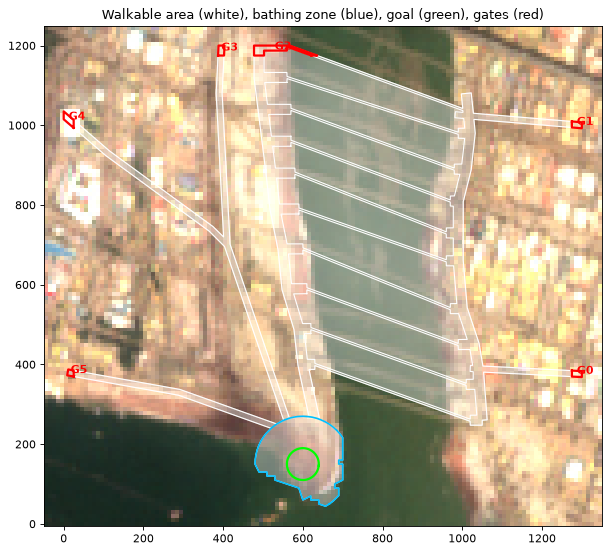
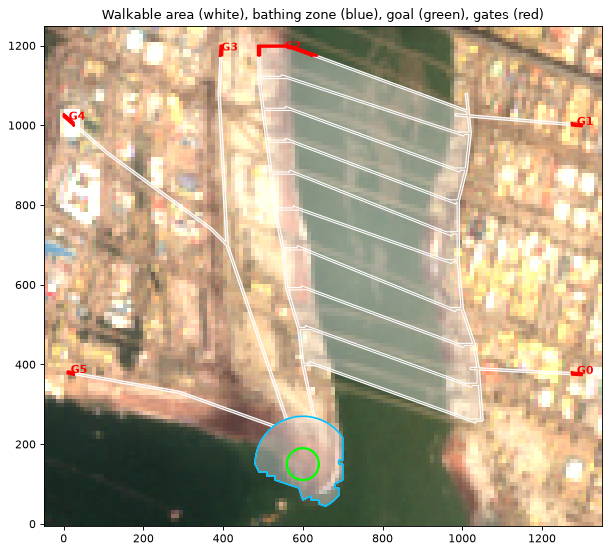
Link corridor widths to map and capacity, move assumptions to config
Each corridor now uses its approx_width_m from the sangam-command layers,
capacity is width x 1.3 people/m/s, and run_sim reports gate demand vs
capacity. All tunables move to config/sim.json.

diff --git a/scripts/build_hotspot.py b/scripts/build_hotspot.py
@@ -3,8 +3,10 @@
 Reads the Sentinel-traced layers from the Sangam Command map project and writes
 data/hotspot/sangam_nose.json in local metres (UTM 44N minus an origin).
 
-Widths are assumptions, not measurements: 10 m Sentinel-2 cannot resolve them.
-Change them in WIDTHS_M and re-run.
+Each corridor uses its own width from the map (approx_width_m, with width_source
+saying where it came from). Features without one fall back to default_width_m in
+config/sim.json; width_override_m forces a width for a whole kind. Capacity is
+width x specific_flow_pms (free flow, ~1.3 people/m/s).
 """
 import json
 from pathlib import Path
@@ -15,17 +17,9 @@ import shapely.affinity
 from pyproj import Transformer
 from shapely.geometry import box, mapping, shape
 
-MAP = Path("/Users/piyushchauhan/Documents/ChatGPT/Crowd Control/sangam-command/data")
-OUT = Path(__file__).resolve().parent.parent / "data" / "hotspot"
+import config
 
-HALF_WINDOW_M = 600          # study window: nose +- this, east-shifted to include the far pontoon ends
-WIDTHS_M = {
-    "pontoon": 5.0,          # single-lane pontoon deck
-    "mela_road": 15.0,       # main temporary road
-    "approach": 25.0,        # bank margin lanes / ghat approaches
-}
-BATHING_RADIUS_M = 120       # land within this distance of the nose tip counts as the bathing ghat
-SPAWN_DEPTH_M = 25           # strip along the window edge where people enter/leave
+OUT = Path(__file__).resolve().parent.parent / "data" / "hotspot"
 
 _tr = Transformer.from_crs(4326, 32644, always_xy=True)
 
@@ -34,60 +28,92 @@ def to_utm(geom):
     return shapely.transform(geom, lambda c: np.column_stack(_tr.transform(c[:, 0], c[:, 1])))
 
 
-def load(name):
-    feats = json.load(open(MAP / "mela" / f"{name}.geojson"))["features"]
+def load(map_dir, name):
+    feats = json.load(open(map_dir / "mela" / f"{name}.geojson"))["features"]
     return [(f["properties"], to_utm(shape(f["geometry"]))) for f in feats if f["geometry"]]
 
 
+def width_of(props, kind, hcfg):
+    """Width in metres and where it came from: override > map > default."""
+    if hcfg["width_override_m"].get(kind) is not None:
+        return hcfg["width_override_m"][kind], "config_override"
+    if props.get("approx_width_m") is not None:
+        return float(props["approx_width_m"]), props.get("width_source") or "map"
+    return hcfg["default_width_m"][kind], "config_default"
+
+
 def main():
-    nose = load("sangam_nose")[0][1]
-    win = box(nose.x - HALF_WINDOW_M, nose.y - 150, nose.x + HALF_WINDOW_M + 100, nose.y + 2 * HALF_WINDOW_M - 150)
-    river = shapely.union_all([g for _, g in load("river_banks")]).buffer(0)
+    cfg = config.load()
+    hcfg = cfg["hotspot"]
+    map_dir = cfg["map_data_dir"]
+    half = hcfg["half_window_m"]
+
+    nose = load(map_dir, "sangam_nose")[0][1]
+    win = box(nose.x - half, nose.y - 150, nose.x + half + 100, nose.y + 2 * half - 150)
+    river = shapely.union_all([g for _, g in load(map_dir, "river_banks")]).buffer(0)
     land = win.difference(river)
 
-    corridors = [g.buffer(WIDTHS_M["mela_road"] / 2, cap_style="flat") for _, g in load("mela_roads")]
-    corridors += [g.buffer(WIDTHS_M["approach"] / 2, cap_style="flat") for _, g in load("pontoon_approaches")]
-    bathing = nose.buffer(BATHING_RADIUS_M).intersection(land)
-    on_land = shapely.union_all(corridors + [bathing]).intersection(land)
+    # (id, kind, width, source, polygon) for every corridor inside the window.
+    corridors = []
+    for layer, kind in [("mela_roads", "mela_road"), ("pontoon_approaches", "approach")]:
+        for props, line in load(map_dir, layer):
+            if line.intersects(win):
+                w, src = width_of(props, kind, hcfg)
+                corridors.append((props["id"], kind, w, src, line.buffer(w / 2, cap_style="flat").intersection(land)))
+    bathing = nose.buffer(hcfg["bathing_radius_m"]).intersection(land)
 
     # Pontoon decks cross the water, so they are not clipped by the river mask.
     # Extend each deck a little at both ends so it overlaps the bank corridors.
-    pontoons, pontoon_ids = [], []
-    for props, line in load("pontoon_bridges"):
+    ext_m = hcfg["pontoon_end_extension_m"]
+    for props, line in load(map_dir, "pontoon_bridges"):
         if not line.intersects(win):
             continue
         a, b = shapely.get_coordinates(line)[[0, -1]]
         d = (b - a) / max(line.length, 1e-6)
-        ext = shapely.LineString([a - d * 15, *shapely.get_coordinates(line)[1:-1], b + d * 15])
-        pontoons.append(ext.buffer(WIDTHS_M["pontoon"] / 2, cap_style="flat").intersection(win))
-        pontoon_ids.append(props["id"])
+        ext = shapely.LineString([a - d * ext_m, *shapely.get_coordinates(line)[1:-1], b + d * ext_m])
+        w, src = width_of(props, "pontoon", hcfg)
+        corridors.append((props["id"], "pontoon", w, src, ext.buffer(w / 2, cap_style="flat").intersection(win)))
 
-    walk = shapely.union_all([on_land, *pontoons]).buffer(0.5).buffer(-0.5).simplify(0.5)
+    walk = shapely.union_all([c[4] for c in corridors] + [bathing]).buffer(0.5).buffer(-0.5).simplify(0.5)
     parts = sorted(getattr(walk, "geoms", [walk]), key=lambda p: p.area, reverse=True)
     walk = parts[0]  # one connected walkable area; drop islands nothing can reach
+    corridors = [c for c in corridors if c[4].intersects(walk)]
 
     # Where corridors cross the window edge, people enter and leave.
-    edge = win.exterior.buffer(SPAWN_DEPTH_M).intersection(walk)
+    edge = win.exterior.buffer(hcfg["spawn_depth_m"]).intersection(walk)
     gates = [g for g in getattr(edge, "geoms", [edge]) if g.area > 50]
-    goal = nose.buffer(40).intersection(walk)  # bathing edge at the tip
+    goal = nose.buffer(hcfg["goal_radius_m"]).intersection(walk)
+
+    # A gate's capacity is that of the corridors feeding it (summed if several meet there).
+    gate_info = []
+    for g in gates:
+        feeding = [c for c in corridors if c[4].intersection(g).area > 1]
+        width = sum(c[2] for c in feeding)
+        gate_info.append({"corridors": [c[0] for c in feeding], "width_m": width,
+                          "capacity_ppm": round(config.capacity_ppm(width, cfg))})
 
     ox, oy = round(win.bounds[0]), round(win.bounds[1])
     local = lambda g: shapely.affinity.translate(g, -ox, -oy)
     OUT.mkdir(parents=True, exist_ok=True)
     out = {
         "origin_utm44n": [ox, oy],
-        "assumptions": {"widths_m": WIDTHS_M, "bathing_radius_m": BATHING_RADIUS_M,
-                        "source": "Sangam Command traced layers, Sentinel-2 2025-01-27; widths assumed"},
+        "assumptions": {"hotspot": hcfg, "capacity": cfg["capacity"],
+                        "source": "Sangam Command traced layers, Sentinel-2 2025-01-27; widths from map approx_width_m"},
         "walkable": mapping(local(walk)),
         "bathing_area": mapping(local(bathing.intersection(walk))),
         "goal": mapping(local(goal)),
         "gates": [mapping(local(g)) for g in gates],
-        "pontoon_ids": pontoon_ids,
+        "gate_capacity": gate_info,
+        "corridors": [{"id": i, "kind": k, "width_m": w, "width_source": s,
+                       "capacity_ppm": round(config.capacity_ppm(w, cfg))} for i, k, w, s, _ in corridors],
+        "pontoon_ids": [c[0] for c in corridors if c[1] == "pontoon"],
     }
     (OUT / "sangam_nose.json").write_text(json.dumps(out))
     print(f"walkable {walk.area / 1e4:.2f} ha, parts dropped {len(parts) - 1}, "
-          f"gates {len(gates)}, pontoons {len(pontoons)}, goal {goal.area:.0f} m2, "
+          f"corridors {len(corridors)}, pontoons {len(out['pontoon_ids'])}, goal {goal.area:.0f} m2, "
           f"bathing {bathing.area:.0f} m2, vertices {len(shapely.get_coordinates(walk))}")
+    for i, gi in enumerate(gate_info):
+        print(f"  G{i}: width {gi['width_m']:.1f} m, capacity {gi['capacity_ppm']} people/min, via {', '.join(gi['corridors'])}")
 
 
 if __name__ == "__main__":

diff --git a/scripts/run_sim.py b/scripts/run_sim.py
@@ -10,19 +10,22 @@ Writes out/<name>/snapshots.npz (positions every second) and run.json.
 import argparse
 import json
 import time
-from pathlib import Path
 
 import jupedsim as jps
 import numpy as np
 import shapely
 from shapely.geometry import shape
 
-ROOT = Path(__file__).resolve().parent.parent
+import config
+
+ROOT = config.ROOT
+CFG = config.load()
 # Share of inbound arrivals per gate (G0..G5, see out/hotspot_walkable.png):
 # G0/G1 east bank via pontoons, G2/G3 north lanes along the nose, G4/G5 city roads.
-GATE_WEIGHTS = [0.15, 0.15, 0.2, 0.2, 0.15, 0.15]
-AGENT_RADIUS_M = 0.2
-MIN_SPAWN_GAP_M = 0.45
+GATE_WEIGHTS = CFG["gate_weights"]
+AGENT_RADIUS_M = CFG["agents"]["radius_m"]
+MIN_SPAWN_GAP_M = CFG["agents"]["min_spawn_gap_m"]
+SPEED = CFG["agents"]["desired_speed_mps"]
 
 
 def random_points(poly, n, rng):
@@ -56,6 +59,18 @@ def main():
     ghat = shape(hs["bathing_area"]).difference(goal.buffer(2)).buffer(-1)
     for g in [goal, ghat, *gates]:
         shapely.prepare(g)
+    if len(GATE_WEIGHTS) != len(gates):
+        raise SystemExit(f"config gate_weights has {len(GATE_WEIGHTS)} entries but the hotspot has {len(gates)} gates")
+
+    # Inbound demand per gate against its free-flow capacity (width x specific flow).
+    # Over capacity is allowed: queues and backlog are what we want to see.
+    gate_load = []
+    for i, (w, cap) in enumerate(zip(GATE_WEIGHTS, hs["gate_capacity"])):
+        demand = args.inflow * w
+        gate_load.append({"gate": i, "demand_ppm": round(demand), "capacity_ppm": cap["capacity_ppm"],
+                          "load": round(demand / cap["capacity_ppm"], 2)})
+        print(f"G{i}: demand {demand:6.0f}/min vs capacity {cap['capacity_ppm']:5d}/min "
+              f"({demand / cap['capacity_ppm']:.0%}){'  OVER' if demand > cap['capacity_ppm'] else ''}")
 
     sim = jps.Simulation(model=jps.CollisionFreeSpeedModel(), geometry=walk, dt=args.dt)
     goal_id = sim.add_exit_stage(goal)
@@ -93,7 +108,7 @@ def main():
             try:
                 sim.add_agent(jps.CollisionFreeSpeedModelAgentParameters(
                     journey_id=journey, stage_id=stage, position=tuple(p),
-                    desired_speed=float(np.clip(rng.normal(1.2, 0.2), 0.6, 1.8)),
+                    desired_speed=float(np.clip(rng.normal(SPEED["mean"], SPEED["sd"]), SPEED["min"], SPEED["max"])),
                     radius=AGENT_RADIUS_M))
             except RuntimeError:
                 continue
@@ -133,6 +148,7 @@ def main():
                         xy=np.concatenate(frames), ids=np.concatenate(frame_ids))
     run = {"args": vars(args), "gate_weights": GATE_WEIGHTS, "agent_radius_m": AGENT_RADIUS_M,
            "model": "CollisionFreeSpeedModel", "wall_seconds": round(time.time() - t0, 1),
+           "agents": CFG["agents"], "gate_load": gate_load,
            "assumptions": hs["assumptions"], "series": series}
     (out / "run.json").write_text(json.dumps(run))
     print(f"done {name}: wall {run['wall_seconds']}s, peak agents {max(s['agents'] for s in series)}")

diff --git a/scripts/analyze.py b/scripts/analyze.py
@@ -6,7 +6,6 @@ Writes out/<name>/metrics.json and three PNGs.
 """
 import json
 import sys
-from pathlib import Path
 
 import matplotlib
 matplotlib.use("Agg")
@@ -17,11 +16,14 @@ from shapely.geometry import box, shape
 
 from plot_hotspot import background, outline
 
-ROOT = Path(__file__).resolve().parent.parent
-CELL_M = 4.0
-MIN_WALKABLE_M2 = 6.0        # ignore cells that are mostly wall/water
-DENSE = 4.0                  # people/m2: free walking stops
-CRITICAL = 6.0               # people/m2: crush risk
+import config
+
+ROOT = config.ROOT
+_A = config.load()["analysis"]
+CELL_M = _A["cell_m"]
+MIN_WALKABLE_M2 = _A["min_walkable_m2"]  # ignore cells that are mostly wall/water
+DENSE = _A["dense_ppm2"]                 # people/m2: free walking stops
+CRITICAL = _A["critical_ppm2"]           # people/m2: crush risk
 
 
 def main(name):

diff --git a/scripts/peek_hotspot.py b/scripts/peek_hotspot.py
@@ -1,5 +1,4 @@
 import json, subprocess, sys
-from pathlib import Path
 import matplotlib; matplotlib.use("Agg")
 import matplotlib.pyplot as plt
 from PIL import Image
@@ -7,7 +6,9 @@ from pyproj import Transformer
 from shapely.geometry import shape, box
 from shapely.ops import transform
 
-MAP = Path("/Users/piyushchauhan/Documents/ChatGPT/Crowd Control/sangam-command/data")
+import config
+
+MAP = config.load()["map_data_dir"]
 to_utm = Transformer.from_crs(4326, 32644, always_xy=True).transform
 def load(p):
     return [(f["properties"], transform(to_utm, shape(f["geometry"]))) for f in json.load(open(MAP / p))["features"] if f["geometry"]]

diff --git a/scripts/plot_hotspot.py b/scripts/plot_hotspot.py
@@ -1,13 +1,14 @@
 """Draw the hotspot walkable area over the Sentinel-2 image (sanity check)."""
 import json, subprocess
-from pathlib import Path
 import matplotlib; matplotlib.use("Agg")
 import matplotlib.pyplot as plt
 from PIL import Image
 from shapely.geometry import shape
 
-ROOT = Path(__file__).resolve().parent.parent
-TIF = "/Users/piyushchauhan/Documents/ChatGPT/Crowd Control/sangam-command/data/prayagraj_sangam_2025-01-27.tif"
+import config
+
+ROOT = config.ROOT
+TIF = str(config.load()["map_data_dir"] / "prayagraj_sangam_2025-01-27.tif")
 
 
 def background(ax, hs, walk):

diff --git a/scripts/config.py b/scripts/config.py
@@ -1,0 +1,18 @@
+"""Shared settings from config/sim.json. CROWD_MAP_DIR overrides map_data_dir."""
+import json
+import os
+from pathlib import Path
+
+ROOT = Path(__file__).resolve().parent.parent
+CONFIG_PATH = ROOT / "config" / "sim.json"
+
+
+def load():
+    cfg = json.loads(CONFIG_PATH.read_text())
+    cfg["map_data_dir"] = Path(os.environ.get("CROWD_MAP_DIR", cfg["map_data_dir"]))
+    return cfg
+
+
+def capacity_ppm(width_m, cfg):
+    """Free-flow capacity of a corridor, people per minute."""
+    return width_m * cfg["capacity"]["specific_flow_pms"] * 60

diff --git a/README.md b/README.md
@@ -10,7 +10,7 @@ will test whether sparse phone pings (1–5% of people) can detect it in time.
 |---|---|
 | `data/sentinel2/` | Sentinel-2 true-colour crops, Oct 2024 + Jan–Feb 2025 (Copernicus, free) |
 | `data/hotspot/sangam_nose.json` | Walkable area, bathing ghat, goal and gates in local metres (origin in UTM 44N) |
-| `scripts/build_hotspot.py` | Builds the hotspot from the Sangam Command traced layers (a local checkout of [sangam-command](https://github.com/piyushchouhan/sangam-command); the path is hardcoded in the script, edit it) |
+| `scripts/build_hotspot.py` | Builds the hotspot from the Sangam Command traced layers (a local checkout of [sangam-command](https://github.com/piyushchouhan/sangam-command); path set in `config/sim.json`) |
 | `scripts/run_sim.py` | JuPedSim simulation: inbound to the ghat + outbound counter-flow |
 | `scripts/analyze.py` | Density / speed / crowd pressure per 4 m cell, plots |
 | `out/<run>/` | Snapshots (1 s), `run.json`, `metrics.json`, PNGs |
@@ -24,16 +24,31 @@ python3 -m venv .venv && .venv/bin/pip install jupedsim shapely pyproj numpy mat
 cd scripts && ../.venv/bin/python analyze.py in3000_out60
 ```
 
+## Config
+
+All assumptions live in `config/sim.json`; scripts read it through `scripts/config.py`.
+`CROWD_MAP_DIR` overrides `map_data_dir` (path to sangam-command's `data/`).
+Change the config, then re-run `build_hotspot.py` before simulating.
+
 ## Assumptions (change before trusting numbers)
 
-- Widths are guesses (`build_hotspot.py`): pontoon 5 m, mela road 15 m, bank approach 25 m.
-  10 m Sentinel-2 cannot measure them, and bottleneck capacity depends on them directly.
+- Widths come from the map: each corridor uses its feature's `approx_width_m` and
+  `width_source` (mela roads and bank lanes 5.5 m measured on Google satellite, pontoons
+  5 m estimated). Missing widths fall back to `default_width_m`; `width_override_m`
+  forces one width per kind. Widths per corridor are listed in `sangam_nose.json`.
+- Capacity = width × 1.3 people/m/s (`capacity.specific_flow_pms`, free-flow value).
+  `build_hotspot.py` prints each gate's capacity; `run_sim.py` prints inbound demand
+  against it and saves it as `gate_load` in `run.json`. Over capacity is allowed, so queues form.
+  A gate fed by several corridors sums their widths, which can overcount where they overlap.
+- Only the plated roads count as walkable; open sand beside them does not. This is
+  probably too narrow on the nose itself.
 - Model: JuPedSim `CollisionFreeSpeedModel`, radius 0.2 m, desired speed N(1.2, 0.2) m/s.
   Not yet calibrated against Jülich bottleneck data; no groups, no pushing forces.
 - Reaching the goal circle = bathed and gone. Outbound walkers start on the ghat at
   `--outflow-frac` × inflow and pick a random gate.
-- Gate shares are guesses (`GATE_WEIGHTS` in `run_sim.py`).
+- Gate shares are guesses (`gate_weights`).
 - Thresholds: 4 people/m² = free walking stops, 6 people/m² = crush risk.
+- Runs in `out/in*_out60` were made with the old 15/25 m widths and are stale.
 
 Sources: geometry traced from Copernicus Sentinel-2 (2025-01-27) in the Sangam Command
 project, © OpenStreetMap contributors (ODbL) where used.
